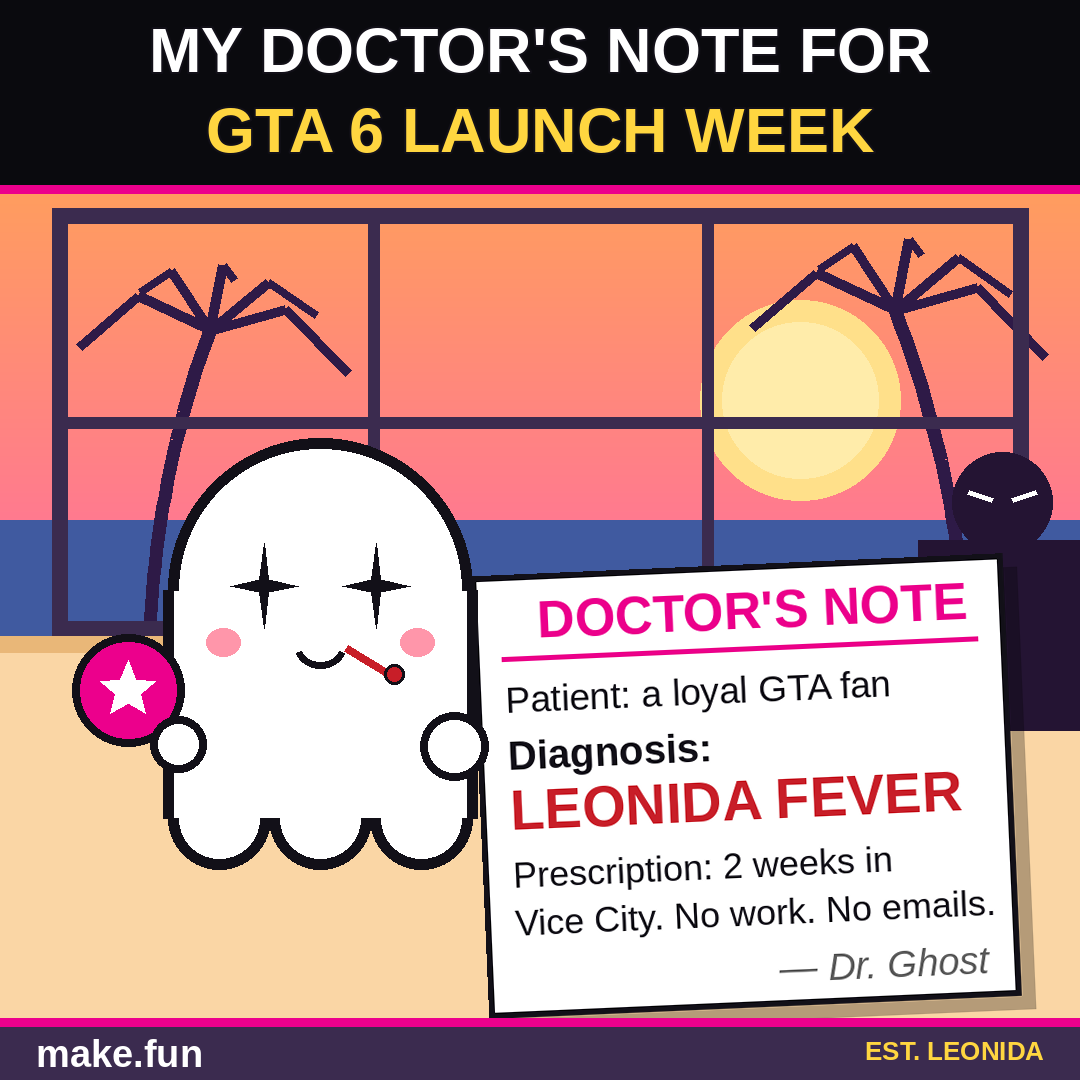
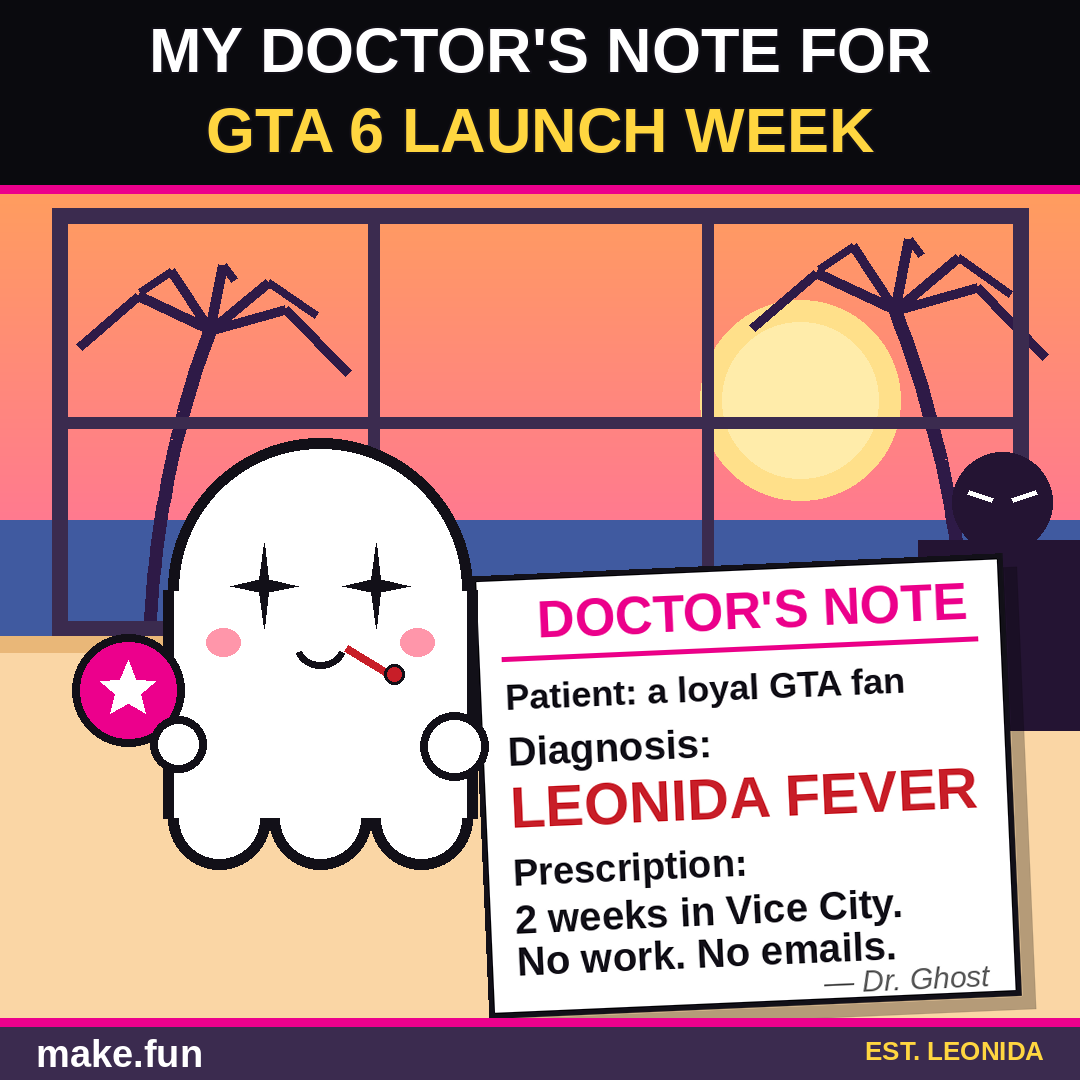
Note card: all-bold short lines for 480px legibility (design consult)
Per the Gemini second opinion: the doctor's note is the joke's core,
so every line is now bold, dark and short — Diagnosis: / LEONIDA FEVER
(largest type after the caption) / Prescription: / 2 weeks in Vice
City. / No work. No emails. Verified legible on a 480x480 downscale.

Changed region(s): [[0.4583, 0.6111, 0.9167, 0.9167]]

diff --git a/tools/make_meme.py b/tools/make_meme.py
@@ -211,13 +211,17 @@ def draw_note_card(img):
     def text(x, y, s, fnt, fill=BLACK, anchor="la"):
         d.text((x, y), s, font=fnt, fill=fill, anchor=anchor)
 
+    # Every line BOLD and short, per the design consult: at the judge's
+    # 480x480 view, regular-weight handwriting blurs to mush, so the note
+    # uses the largest, darkest lettering in the scene after the caption.
     text(280, 16, "DOCTOR'S NOTE", bold(52), MAGENTA, "ma")
-    text(30, 104, "Patient: a loyal GTA fan", regular(37))
-    text(30, 158, "Diagnosis:", bold(40))
-    text(30, 204, "LEONIDA FEVER", bold(56), (200, 30, 40))
-    text(30, 280, "Prescription: 2 weeks in", regular(36))
-    text(30, 328, "Vice City. No work. No emails.", regular(36))
-    text(502, 384, "— Dr. Ghost", italic(38), (90, 90, 90), "ra")
+    text(30, 102, "Patient: a loyal GTA fan", bold(36))
+    text(30, 154, "Diagnosis:", bold(40))
+    text(30, 200, "LEONIDA FEVER", bold(58), (200, 30, 40))
+    text(30, 276, "Prescription:", bold(38))
+    text(30, 322, "2 weeks in Vice City.", bold(40))
+    text(30, 364, "No work. No emails.", bold(40))
+    text(502, 404, "— Dr. Ghost", italic(30), (90, 90, 90), "ra")
 
     layer = layer.rotate(2.5, expand=True, resample=Image.BICUBIC)
     img.paste(layer, (470, 552), layer)
